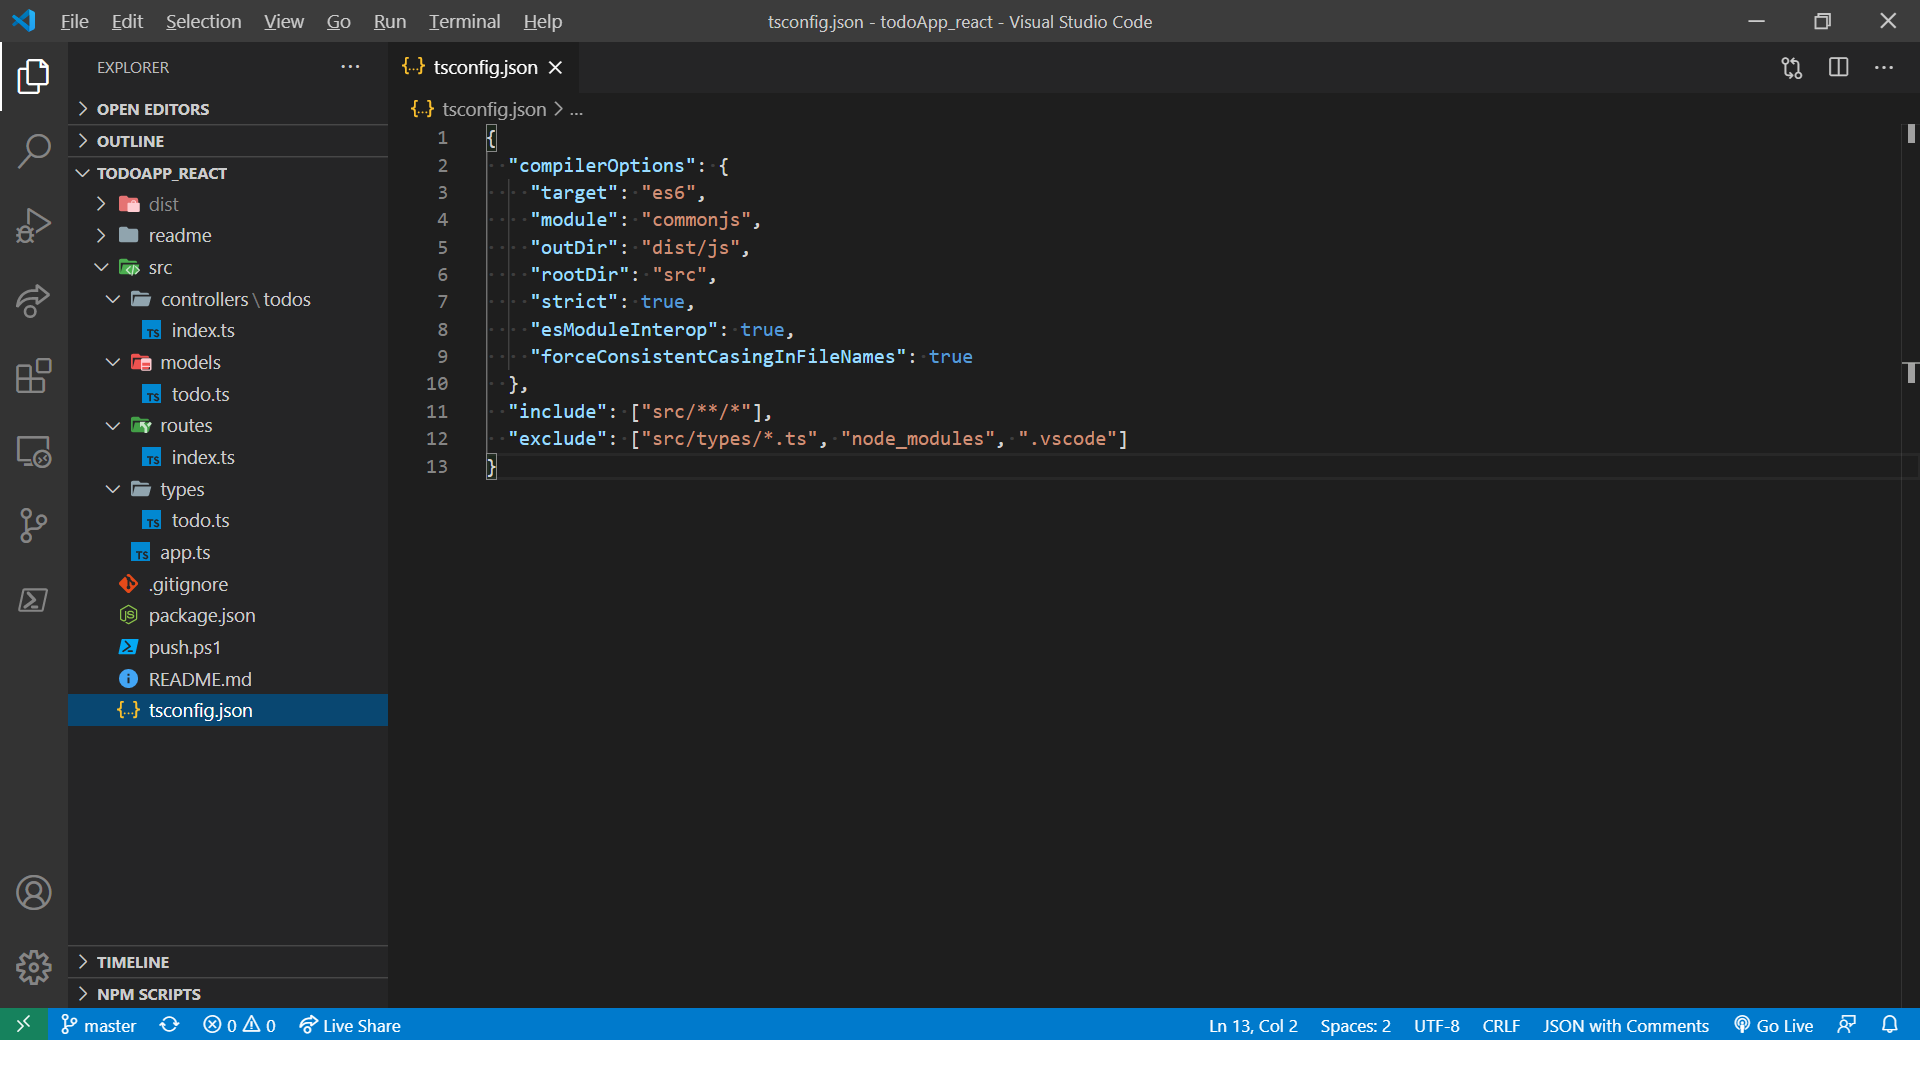
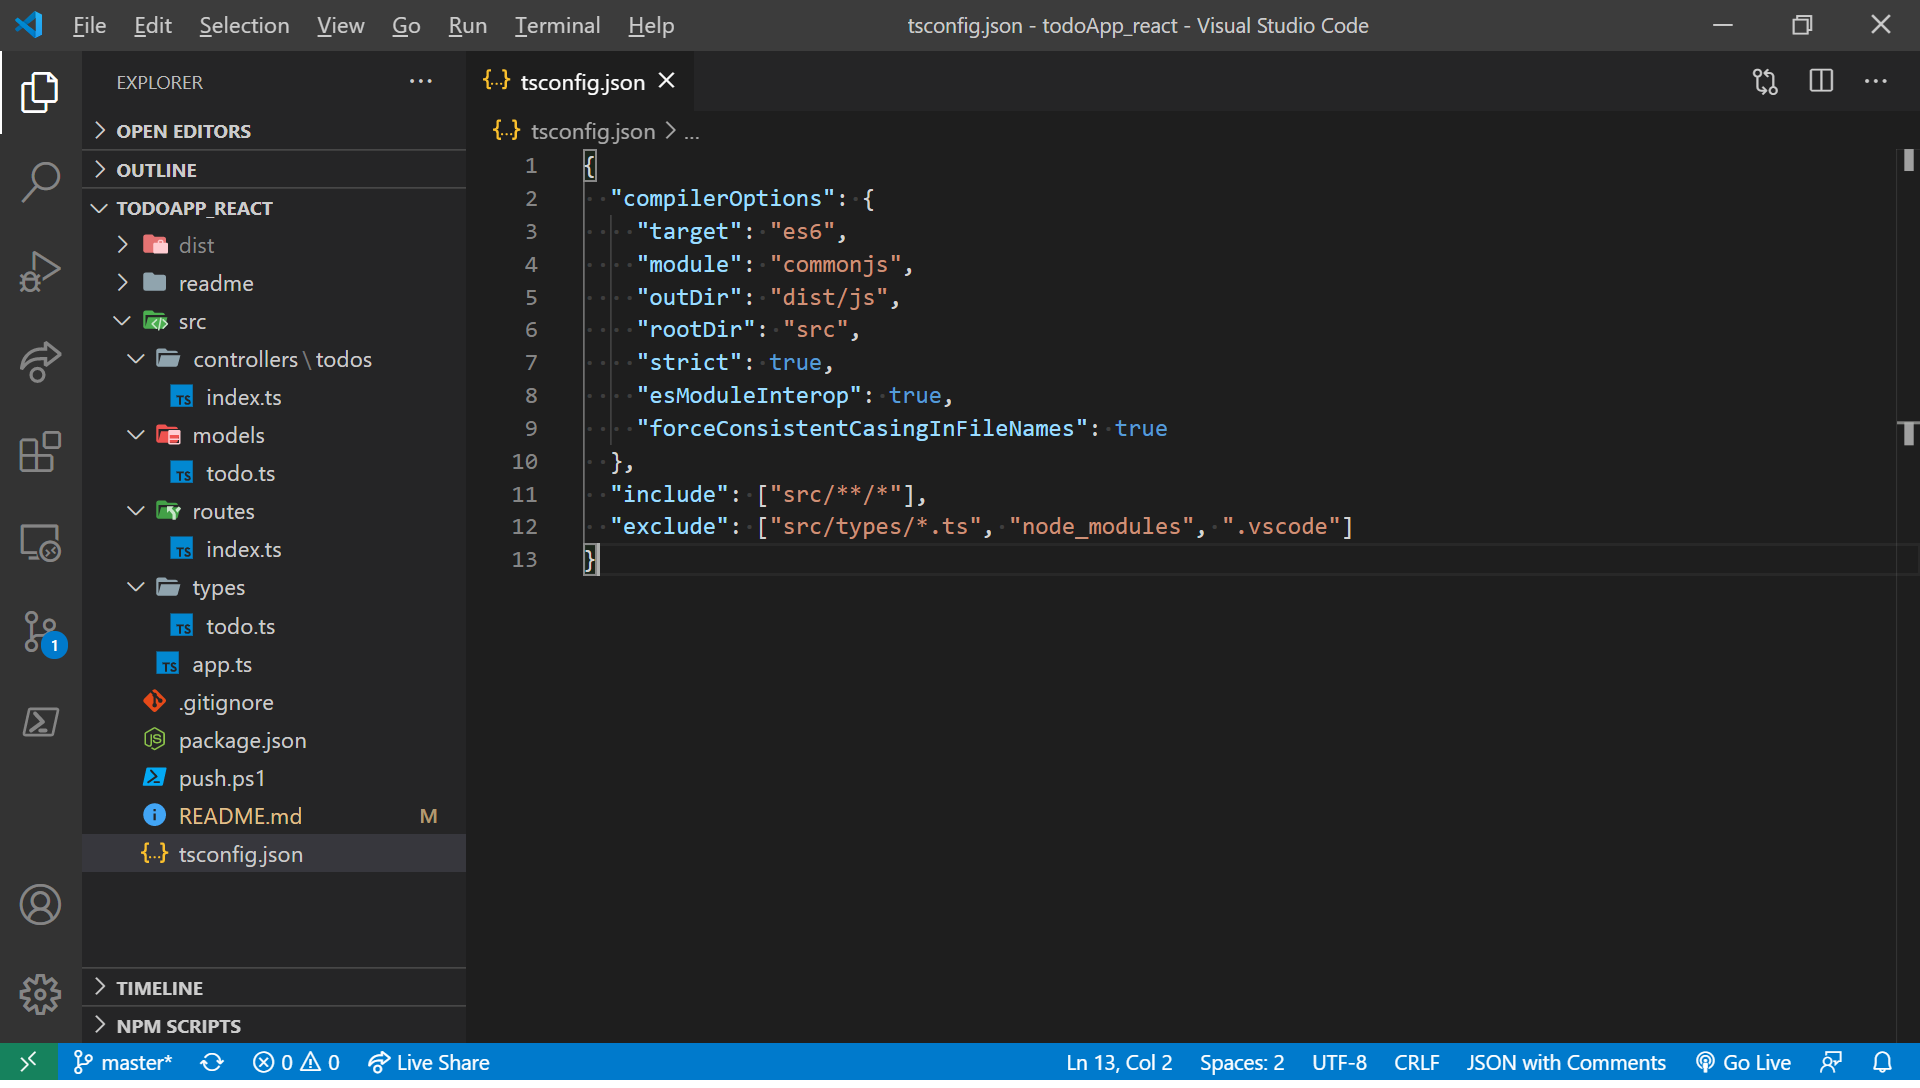
To-do App update

diff --git a/README.md b/README.md
@@ -63,7 +63,7 @@ Delete the tsconfig.json's original settings and paste the text below:
 }
 ```
 
-:black_small_square: ```\outDir:``` tells the compiler to put the compiled code into the dist/js folder.  
+:black_small_square: ```outDir:``` tells the compiler to put the compiled code into the dist/js folder.  
 :black_small_square: ```rootDir:``` informs TypeScript to compile every .ts file located in the src folder.  
 
 :black_small_square: ```include:``` tells the compiler to include files that are in the src directory and sub-directory.  
